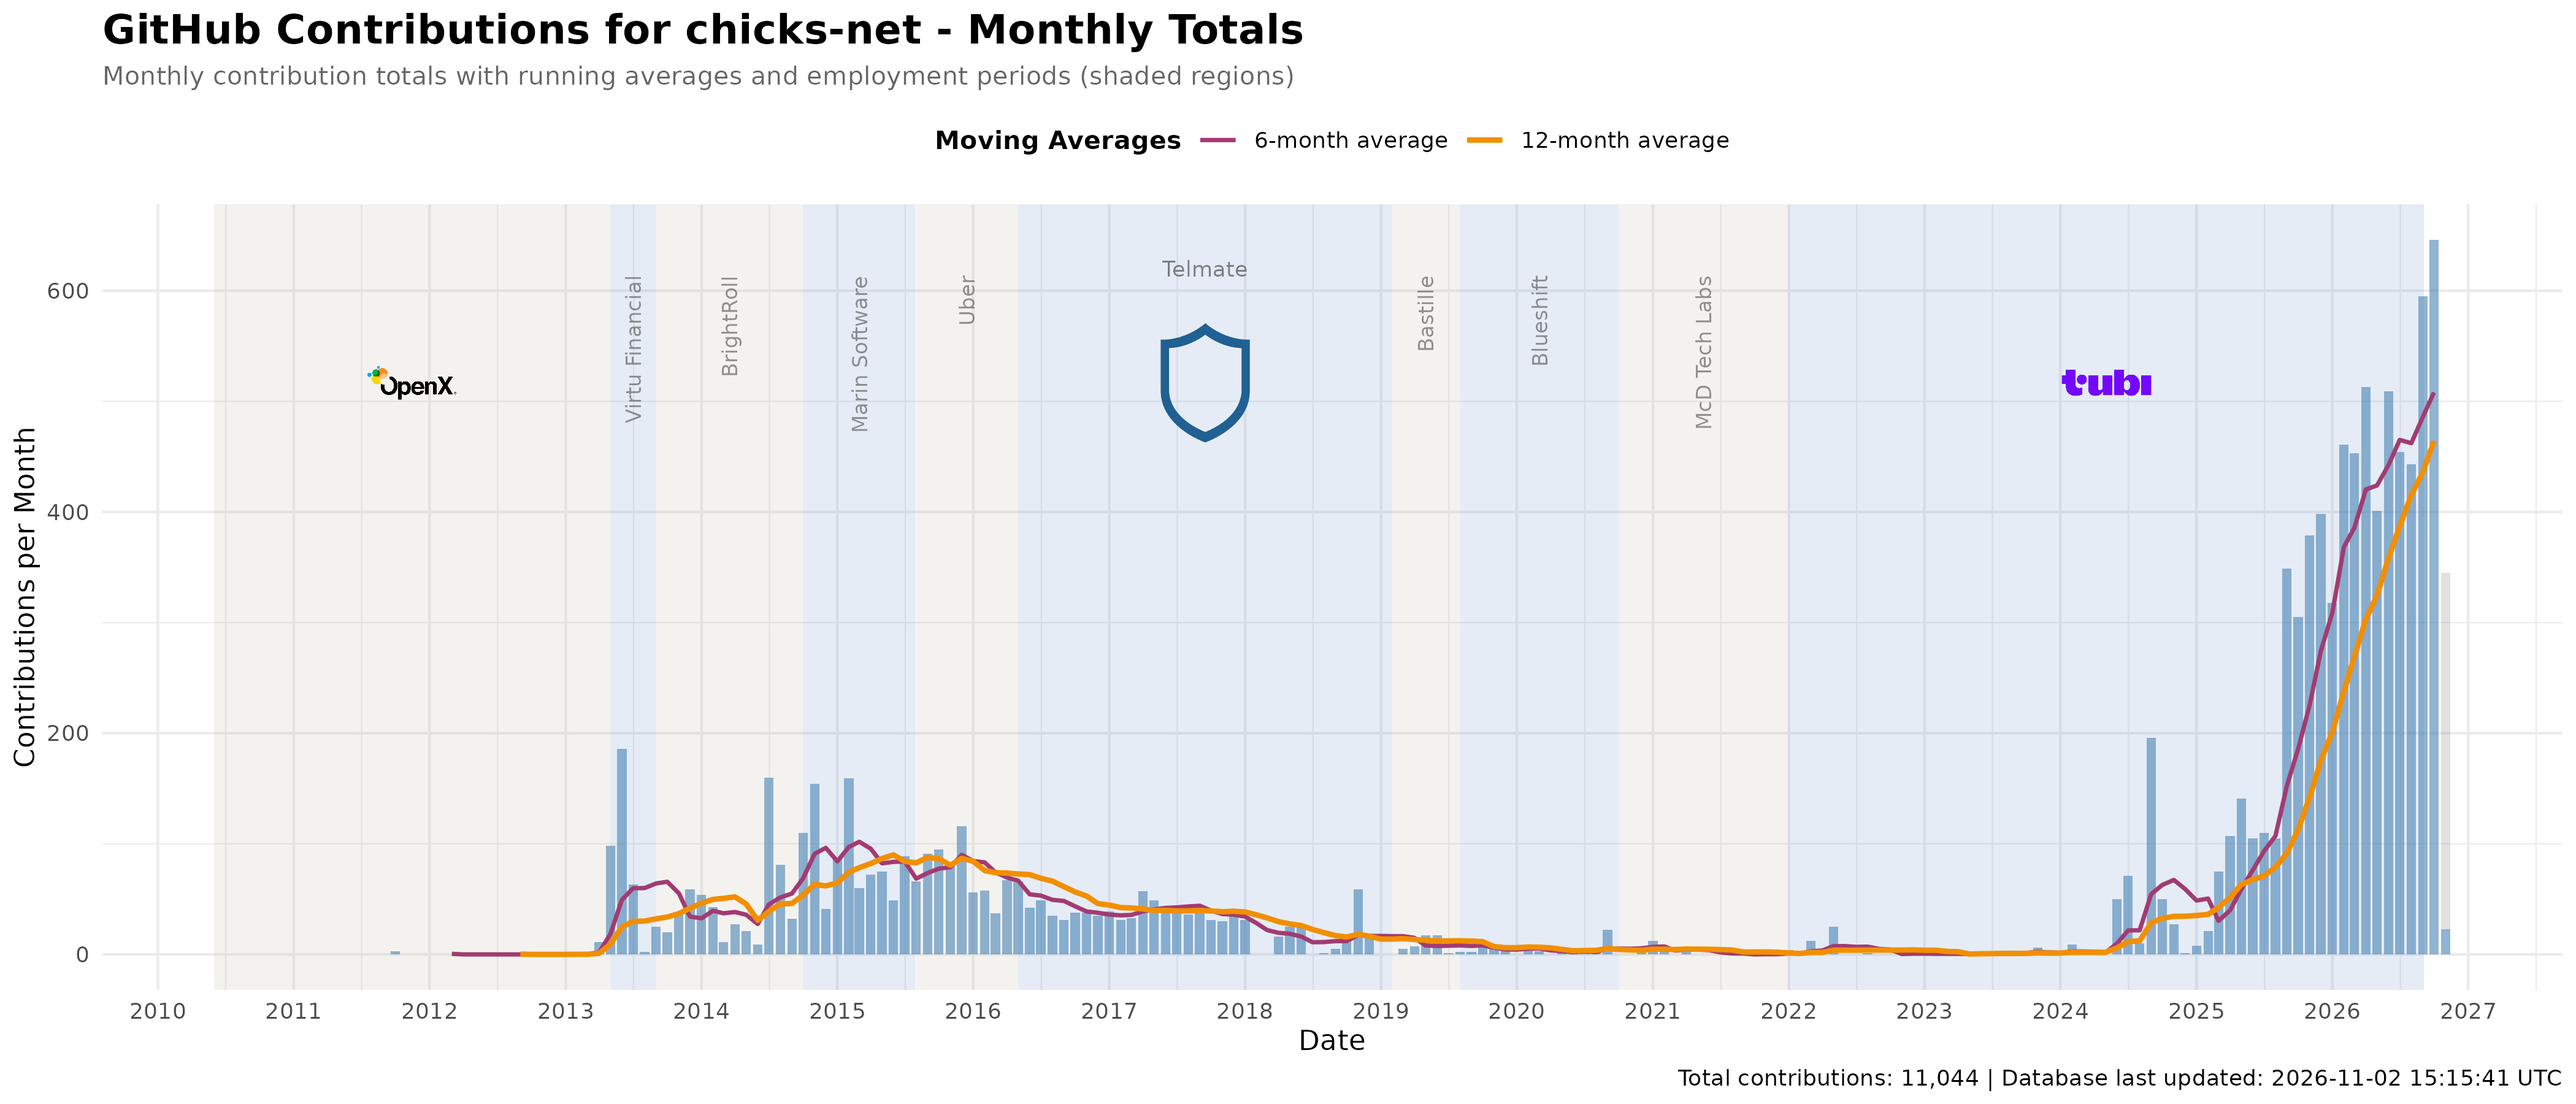
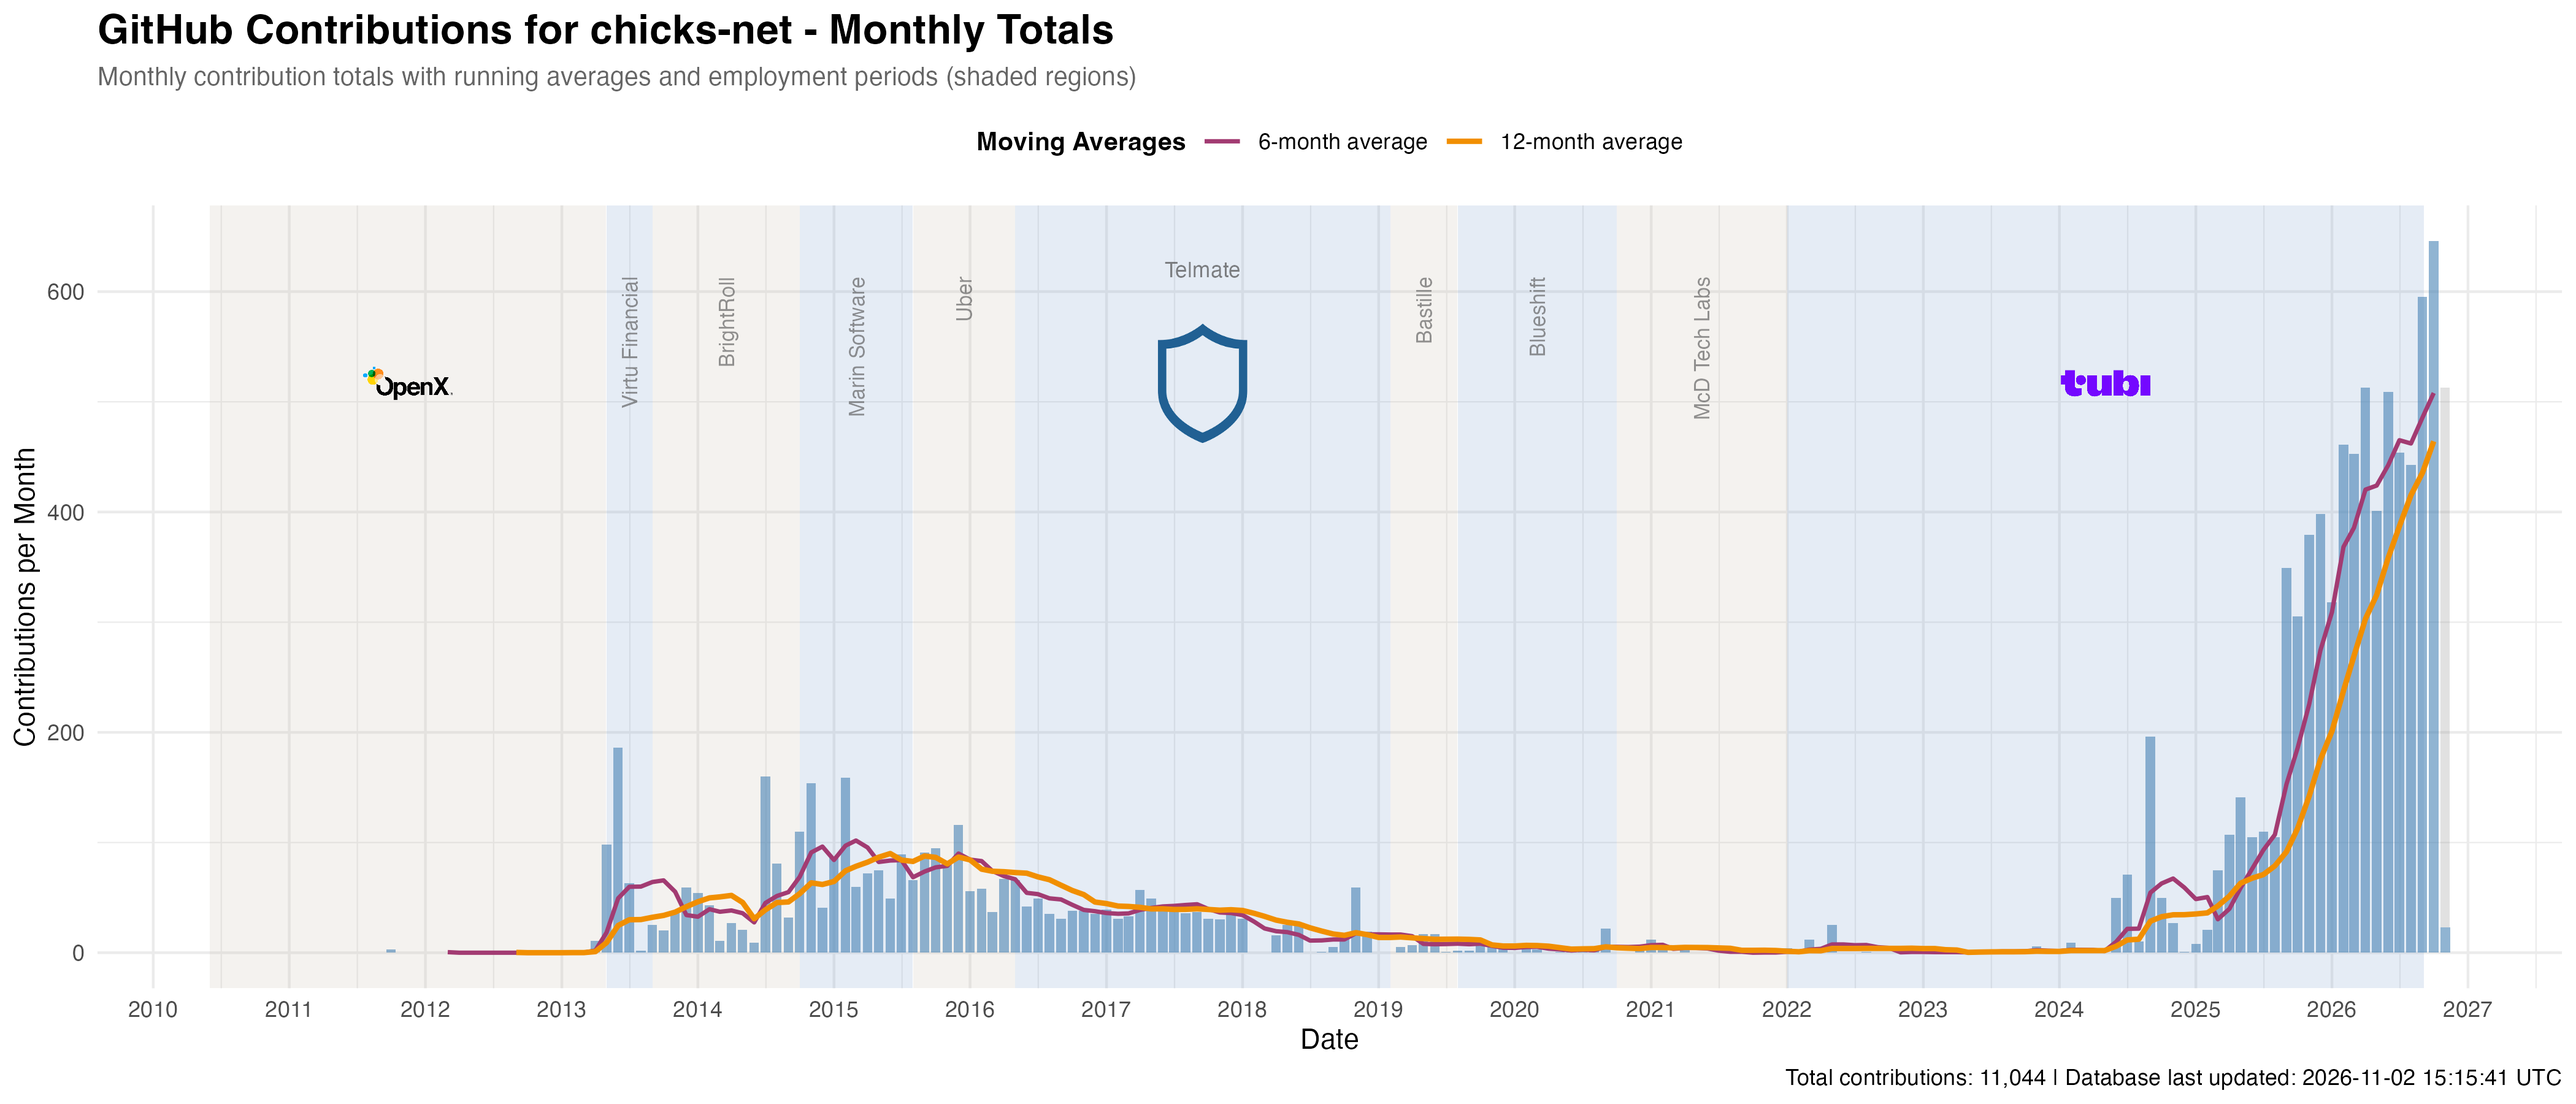
🗓 [github] projected contributions look back 10 days early in the month to reduce wild fluctuations

diff --git a/individuals/chicks/github/contributions-analysis/README.md b/individuals/chicks/github/contributions-analysis/README.md
@@ -39,6 +39,12 @@ Shows monthly contribution totals with multi-month running averages to
 identify seasonal patterns and long-term trends.
 
 - **Blue bars**: Monthly contribution totals
+- **Grey cap**: Projected month-end total for the current (incomplete) month.
+  In the first week, the projection uses the average daily pace over a
+  trailing 10-day window (which spans back into the prior month) since
+  extrapolating from a couple of days is noisy; after that it scales
+  month-to-date contributions by `days in month / days elapsed`. The cap is
+  omitted if the projected total falls below what the month has accumulated.
 - **Purple line**: 6-month running average (semi-annual trend)
 - **Orange line**: 12-month running average (annual trend)
 
